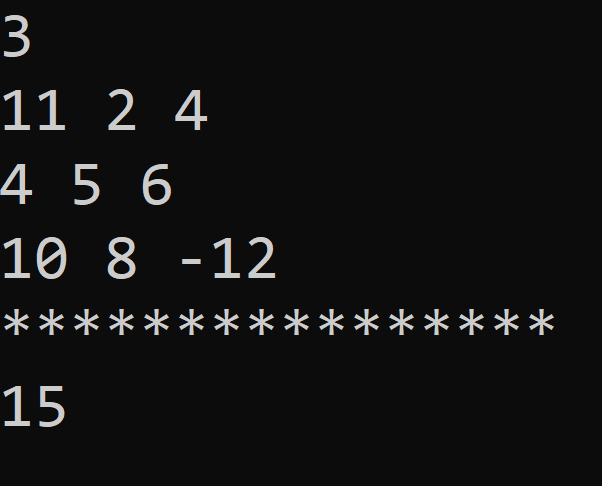
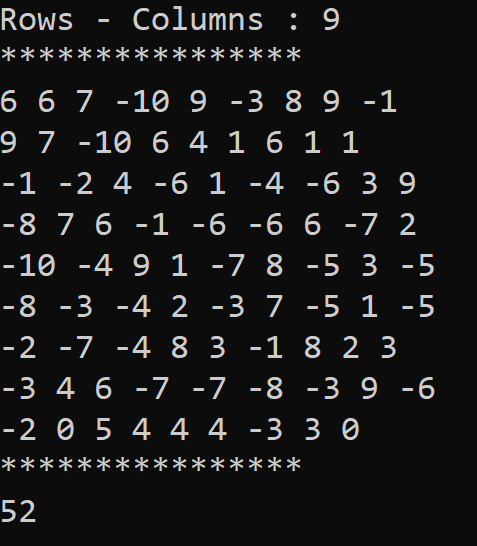
Diagonal Difference

diff --git a/DiagonalDifference/Program.cs b/DiagonalDifference/Program.cs
@@ -40,8 +40,9 @@ namespace DiagonalDifference
         }
         static void Main(string[] args)
         {
+            Console.Write("Rows - Columns : ");
             int n = Convert.ToInt32(Console.ReadLine().Trim());
-
+            Console.WriteLine("****************");
             List<List<int>> arr = new List<List<int>>();
 
             for (int i = 0; i < n; i++)
